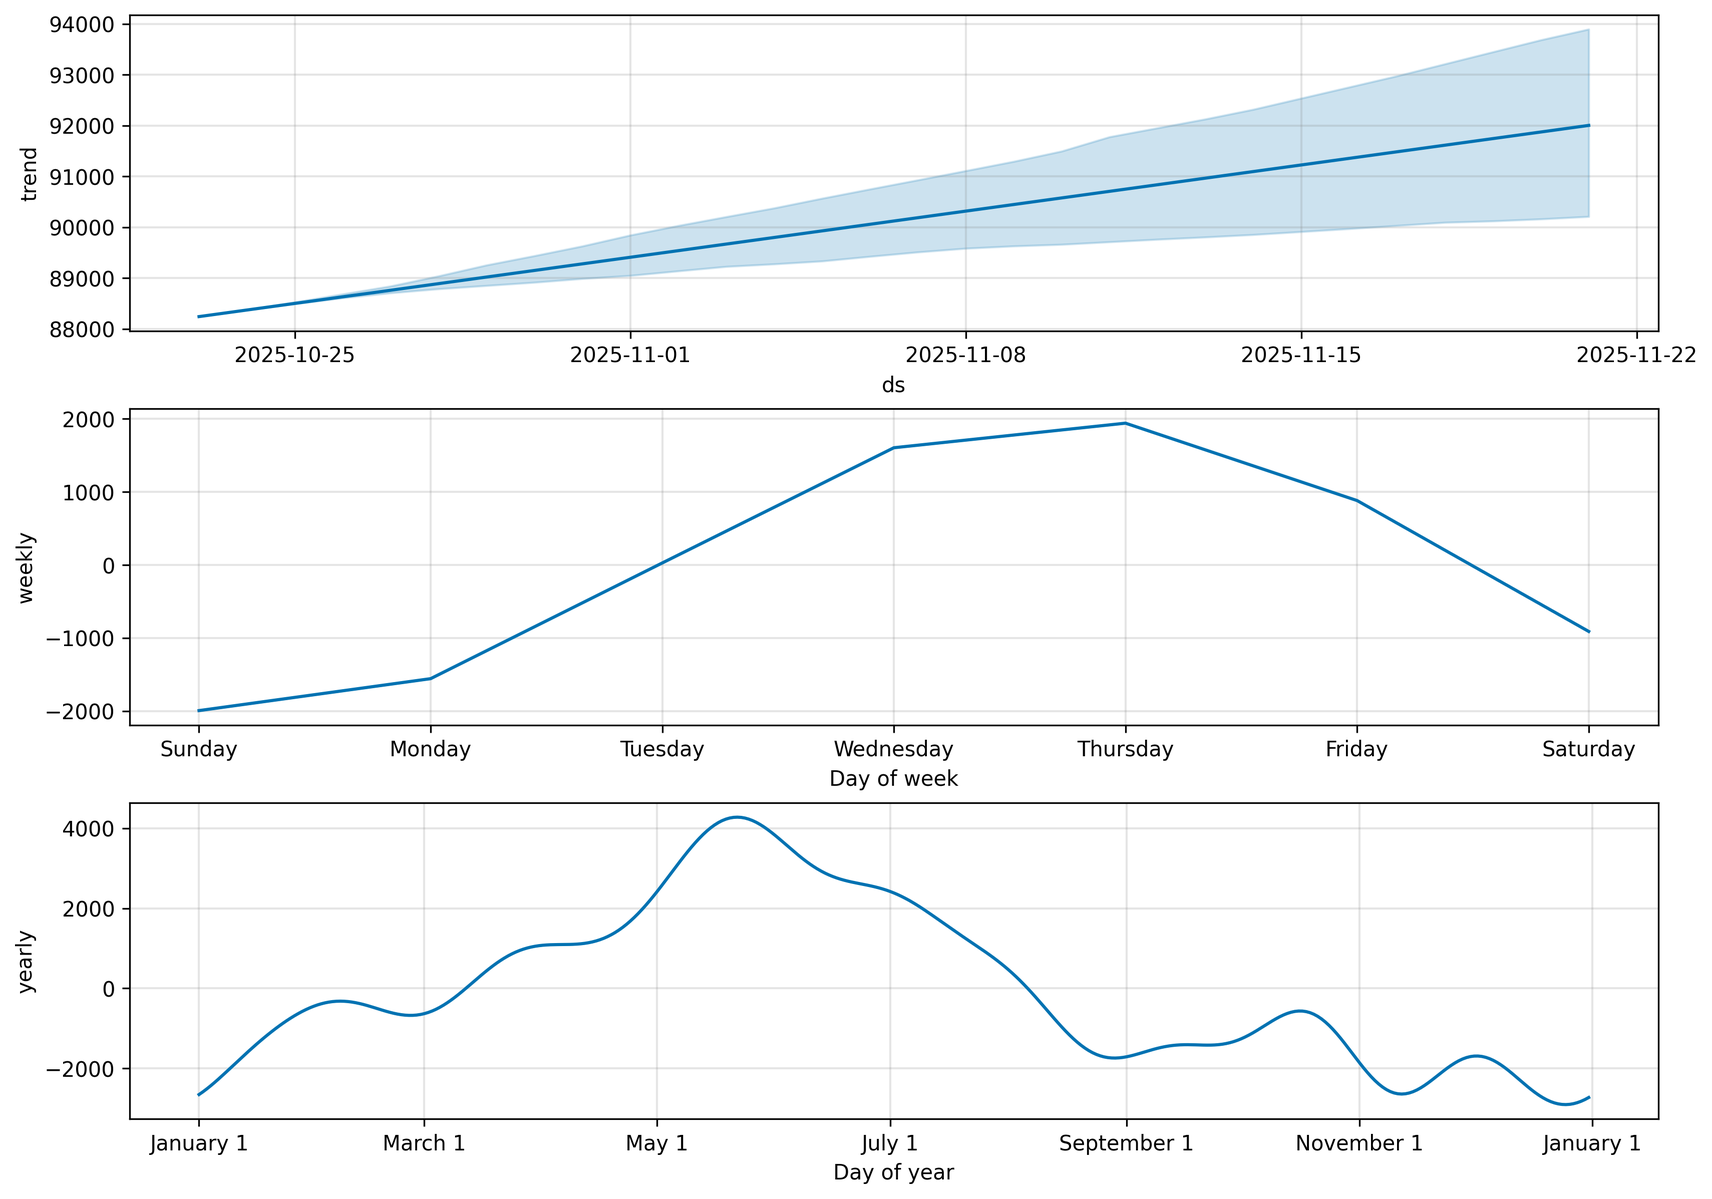
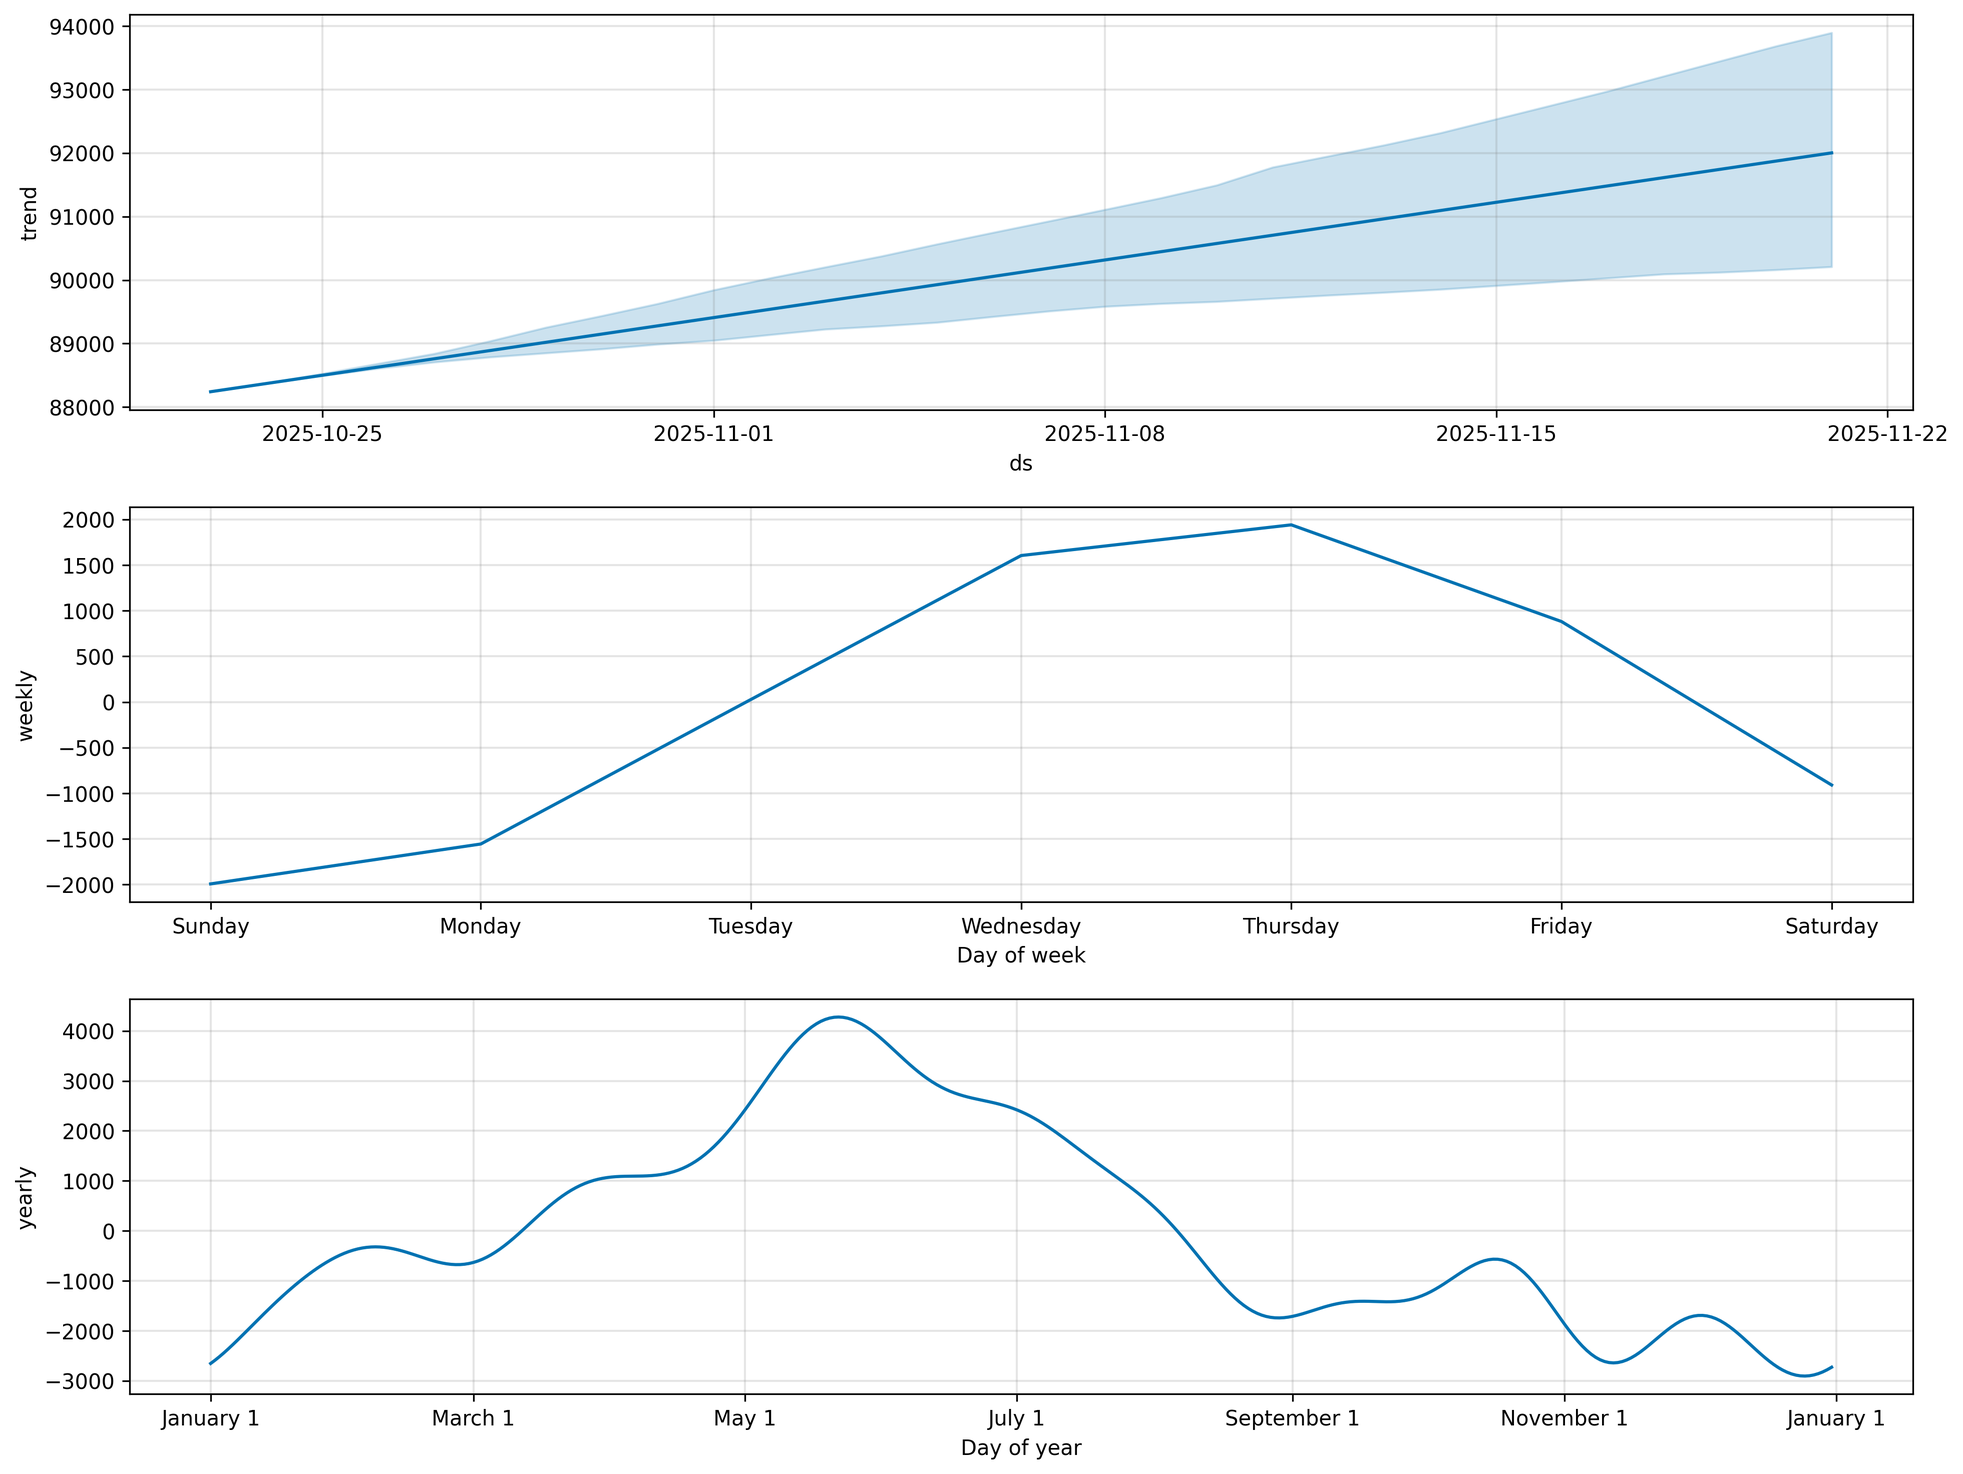
Improve visualizations: professional two-panel plots with zoom
- Enhanced all forecast plots with dual views (full timeline + detailed zoom)
- Added 60-day context window for better forecast visibility
- Improved model comparison with color-coded best performers
- Added error metrics directly on plots
- Increased DPI to 300 for publication quality
- Better colors, markers, and annotations
- SARIMA clearly highlighted as best model (1.07% MAPE)

diff --git a/src/evaluate_models.py b/src/evaluate_models.py
@@ -56,54 +56,84 @@ def plot_comparison(metrics_df):
     
     # Set style
     sns.set_style("whitegrid")
+    plt.rcParams['font.sans-serif'] = ['Arial']
     
     # Create figure with subplots
-    fig, axes = plt.subplots(2, 2, figsize=(14, 10))
+    fig, axes = plt.subplots(2, 2, figsize=(16, 11))
     
     models = metrics_df['model'].values
-    colors = ['#3498db', '#e74c3c', '#2ecc71']
+    # Highlight best model (SARIMA) with different color
+    colors = ['#3498db', '#2ecc71', '#95a5a6']  # ARIMA, SARIMA (green=best), Prophet
     
     # 1. MAE Comparison
     ax = axes[0, 0]
-    ax.bar(models, metrics_df['mae'], color=colors, alpha=0.7, edgecolor='black')
-    ax.set_ylabel('Mean Absolute Error ($)')
-    ax.set_title('MAE Comparison (Lower is Better)', fontweight='bold')
-    ax.grid(True, alpha=0.3, axis='y')
+    bars = ax.bar(models, metrics_df['mae'], color=colors, alpha=0.8, edgecolor='black', linewidth=1.5)
+    # Highlight best model
+    bars[1].set_edgecolor('#27ae60')
+    bars[1].set_linewidth(3)
+    ax.set_ylabel('Mean Absolute Error ($)', fontsize=12, fontweight='bold')
+    ax.set_title('MAE - Lower is Better', fontsize=13, fontweight='bold', pad=15)
+    ax.grid(True, alpha=0.25, axis='y', linestyle='--')
     for i, (m, v) in enumerate(zip(models, metrics_df['mae'])):
-        ax.text(i, v + 50, f'${v:.2f}', ha='center', fontweight='bold')
+        label = f'${v:.0f}' if i == 1 else f'${v:.0f}'
+        weight = 'bold' if i == 1 else 'normal'
+        ax.text(i, v + 80, label, ha='center', fontweight=weight, fontsize=11)
     
     # 2. RMSE Comparison
     ax = axes[0, 1]
-    ax.bar(models, metrics_df['rmse'], color=colors, alpha=0.7, edgecolor='black')
-    ax.set_ylabel('Root Mean Squared Error ($)')
-    ax.set_title('RMSE Comparison (Lower is Better)', fontweight='bold')
-    ax.grid(True, alpha=0.3, axis='y')
+    bars = ax.bar(models, metrics_df['rmse'], color=colors, alpha=0.8, edgecolor='black', linewidth=1.5)
+    bars[1].set_edgecolor('#27ae60')
+    bars[1].set_linewidth(3)
+    ax.set_ylabel('Root Mean Squared Error ($)', fontsize=12, fontweight='bold')
+    ax.set_title('RMSE - Lower is Better', fontsize=13, fontweight='bold', pad=15)
+    ax.grid(True, alpha=0.25, axis='y', linestyle='--')
     for i, (m, v) in enumerate(zip(models, metrics_df['rmse'])):
-        ax.text(i, v + 100, f'${v:.2f}', ha='center', fontweight='bold')
+        label = f'${v:.0f}' if i == 1 else f'${v:.0f}'
+        weight = 'bold' if i == 1 else 'normal'
+        ax.text(i, v + 100, label, ha='center', fontweight=weight, fontsize=11)
     
-    # 3. MAPE Comparison
+    # 3. MAPE Comparison (MOST IMPORTANT)
     ax = axes[1, 0]
-    ax.bar(models, metrics_df['mape'], color=colors, alpha=0.7, edgecolor='black')
-    ax.set_ylabel('Mean Absolute Percentage Error (%)')
-    ax.set_title('MAPE Comparison (Lower is Better)', fontweight='bold')
-    ax.grid(True, alpha=0.3, axis='y')
+    bars = ax.bar(models, metrics_df['mape'], color=colors, alpha=0.8, edgecolor='black', linewidth=1.5)
+    bars[1].set_edgecolor('#27ae60')
+    bars[1].set_linewidth(3)
+    ax.set_ylabel('Mean Absolute Percentage Error (%)', fontsize=12, fontweight='bold')
+    ax.set_title('MAPE - Industry Standard Metric (Lower is Better)', 
+                 fontsize=13, fontweight='bold', pad=15)
+    ax.grid(True, alpha=0.25, axis='y', linestyle='--')
     for i, (m, v) in enumerate(zip(models, metrics_df['mape'])):
-        ax.text(i, v + 0.1, f'{v:.2f}%', ha='center', fontweight='bold')
+        label = f'{v:.2f}%\n⭐ BEST' if i == 1 else f'{v:.2f}%'
+        weight = 'bold' if i == 1 else 'normal'
+        color_text = '#27ae60' if i == 1 else 'black'
+        ax.text(i, v + 0.12, label, ha='center', fontweight=weight, fontsize=11, color=color_text)
     
     # 4. Direction Accuracy Comparison
     ax = axes[1, 1]
-    ax.bar(models, metrics_df['direction_accuracy'], color=colors, alpha=0.7, edgecolor='black')
-    ax.set_ylabel('Direction Accuracy (%)')
-    ax.set_title('Direction Accuracy (Higher is Better)', fontweight='bold')
-    ax.axhline(y=50, color='red', linestyle='--', alpha=0.5, label='Random (50%)')
-    ax.grid(True, alpha=0.3, axis='y')
-    ax.legend()
+    bars = ax.bar(models, metrics_df['direction_accuracy'], color=colors, alpha=0.8, 
+                  edgecolor='black', linewidth=1.5)
+    bars[0].set_edgecolor('#e74c3c')  # Highlight ARIMA (tied best)
+    bars[0].set_linewidth(3)
+    bars[2].set_edgecolor('#e74c3c')  # Highlight Prophet (tied best)
+    bars[2].set_linewidth(3)
+    ax.set_ylabel('Direction Accuracy (%)', fontsize=12, fontweight='bold')
+    ax.set_title('Direction Prediction - Higher is Better', fontsize=13, fontweight='bold', pad=15)
+    ax.axhline(y=50, color='#c0392b', linestyle='--', alpha=0.6, linewidth=2, label='Random Baseline (50%)')
+    ax.grid(True, alpha=0.25, axis='y', linestyle='--')
+    ax.legend(fontsize=10, loc='lower right')
+    ax.set_ylim([40, 100])
     for i, (m, v) in enumerate(zip(models, metrics_df['direction_accuracy'])):
-        ax.text(i, v + 1, f'{v:.1f}%', ha='center', fontweight='bold')
+        weight = 'bold' if i in [0, 2] else 'normal'
+        ax.text(i, v + 1.5, f'{v:.1f}%', ha='center', fontweight=weight, fontsize=11)
     
-    plt.suptitle('Time Series Model Comparison - Bitcoin Price Forecasting', 
-                 fontsize=16, fontweight='bold', y=1.00)
-    plt.tight_layout()
+    plt.suptitle('Bitcoin Price Forecasting - Model Performance Comparison', 
+                 fontsize=16, fontweight='bold', y=0.995)
+    
+    # Add overall winner annotation
+    fig.text(0.5, 0.02, '⭐ SARIMA is the best model with 1.07% MAPE and lowest overall error', 
+             ha='center', fontsize=12, fontweight='bold', 
+             bbox=dict(boxstyle='round', facecolor='lightgreen', alpha=0.8))
+    
+    plt.tight_layout(rect=[0, 0.03, 1, 0.99])
     
     plt.savefig(results_dir / 'model_comparison.png', dpi=300, bbox_inches='tight')
     print(f"\n💾 Saved: {results_dir / 'model_comparison.png'}")

diff --git a/src/prophet_model.py b/src/prophet_model.py
@@ -159,44 +159,76 @@ def evaluate_model(model, test_df):
 
 
 def plot_results(model, train_df, test_df, forecast):
-    """Plot actual vs forecast"""
+    """Plot actual vs forecast with improved visualization"""
     results_dir = Path(__file__).parent.parent / "results"
     results_dir.mkdir(exist_ok=True)
     
-    # Main forecast plot
-    fig, ax = plt.subplots(figsize=(15, 6))
-    
-    # Plot training data
-    ax.plot(train_df['date'], train_df['close'], label='Training Data', color='blue', alpha=0.6)
-    
-    # Plot test data (actual)
-    ax.plot(test_df['date'], test_df['close'], label='Actual Test Data', color='green', linewidth=2)
-    
-    # Plot forecast for test period
+    # Get test forecast
     test_forecast = forecast[forecast['ds'].isin(test_df['date'])]
-    ax.plot(test_forecast['ds'], test_forecast['yhat'], 
-            label='Prophet Forecast', color='red', linewidth=2, linestyle='--')
     
-    # Plot confidence interval
-    ax.fill_between(test_forecast['ds'], 
-                    test_forecast['yhat_lower'], 
-                    test_forecast['yhat_upper'], 
-                    color='red', alpha=0.2, label='95% Confidence Interval')
+    # Create figure with two subplots
+    fig, (ax1, ax2) = plt.subplots(2, 1, figsize=(15, 10))
     
-    ax.set_xlabel('Date')
-    ax.set_ylabel('BTC Price (USD)')
-    ax.set_title('Prophet Bitcoin Price Forecast', fontsize=14, fontweight='bold')
-    ax.legend()
-    ax.grid(True, alpha=0.3)
+    # Plot 1: Full dataset overview
+    ax1.plot(train_df['date'], train_df['close'], label='Training Data', 
+             color='#2E86DE', alpha=0.7, linewidth=1)
+    ax1.plot(test_df['date'], test_df['close'], label='Actual (Test)', 
+             color='#10AC84', linewidth=2.5)
+    ax1.plot(test_forecast['ds'], test_forecast['yhat'], 
+             label='Prophet Forecast', color='#EE5A6F', linewidth=2.5, linestyle='--')
+    ax1.fill_between(test_forecast['ds'], 
+                     test_forecast['yhat_lower'], 
+                     test_forecast['yhat_upper'], 
+                     color='#EE5A6F', alpha=0.2, label='95% CI')
+    ax1.set_xlabel('Date', fontsize=11)
+    ax1.set_ylabel('BTC Price (USD)', fontsize=11)
+    ax1.set_title('Prophet Bitcoin Price Forecast - Full Timeline', 
+                  fontsize=13, fontweight='bold', pad=15)
+    ax1.legend(loc='upper left', fontsize=10)
+    ax1.grid(True, alpha=0.3, linestyle='--')
+    
+    # Plot 2: Zoomed in on test period (last 60 days for context)
+    zoom_start_idx = max(0, len(train_df) - 60)
+    zoom_train = train_df.iloc[zoom_start_idx:]
+    
+    ax2.plot(zoom_train['date'], zoom_train['close'], label='Recent Training Data', 
+             color='#2E86DE', alpha=0.7, linewidth=1.5)
+    ax2.plot(test_df['date'], test_df['close'], label='Actual (Test)', 
+             color='#10AC84', linewidth=3, marker='o', markersize=4)
+    ax2.plot(test_forecast['ds'], test_forecast['yhat'], 
+             label='Prophet Forecast', color='#EE5A6F', linewidth=3, 
+             linestyle='--', marker='s', markersize=4)
+    ax2.fill_between(test_forecast['ds'], 
+                     test_forecast['yhat_lower'], 
+                     test_forecast['yhat_upper'], 
+                     color='#EE5A6F', alpha=0.25)
+    ax2.axvline(x=test_df['date'].iloc[0], color='gray', linestyle=':', 
+                linewidth=2, label='Forecast Start', alpha=0.7)
+    ax2.set_xlabel('Date', fontsize=11)
+    ax2.set_ylabel('BTC Price (USD)', fontsize=11)
+    ax2.set_title('Prophet Forecast - Detailed View (Last 60 Days + 30-Day Forecast)', 
+                  fontsize=13, fontweight='bold', pad=15)
+    ax2.legend(loc='upper left', fontsize=10)
+    ax2.grid(True, alpha=0.3, linestyle='--')
+    
+    # Add error metrics as text
+    actual = test_df['close'].values
+    predicted = test_forecast['yhat'].values
+    mae = np.mean(np.abs(actual - predicted))
+    mape = np.mean(np.abs((actual - predicted) / actual)) * 100
+    textstr = f'MAE: ${mae:.2f}\nMAPE: {mape:.2f}%'
+    props = dict(boxstyle='round', facecolor='wheat', alpha=0.8)
+    ax2.text(0.02, 0.98, textstr, transform=ax2.transAxes, fontsize=10,
+             verticalalignment='top', bbox=props)
+    
     plt.tight_layout()
-    
     plt.savefig(results_dir / 'prophet_forecast.png', dpi=300, bbox_inches='tight')
     print(f"\n💾 Saved: {results_dir / 'prophet_forecast.png'}")
     plt.close()
     
     # Component plots (trend, weekly, yearly)
     fig = model.plot_components(forecast)
-    fig.set_size_inches(12, 8)
+    fig.set_size_inches(14, 10)
     fig.savefig(results_dir / 'prophet_components.png', dpi=300, bbox_inches='tight')
     print(f"💾 Saved: {results_dir / 'prophet_components.png'}")
     plt.close()

diff --git a/src/sarima_model.py b/src/sarima_model.py
@@ -188,32 +188,59 @@ def evaluate_model(fitted_model, test_df):
 
 
 def plot_results(train_df, test_df, forecast, conf_int):
-    """Plot actual vs forecast"""
+    """Plot actual vs forecast with improved visualization"""
     results_dir = Path(__file__).parent.parent / "results"
     results_dir.mkdir(exist_ok=True)
     
-    plt.figure(figsize=(15, 6))
+    # Create figure with two subplots
+    fig, (ax1, ax2) = plt.subplots(2, 1, figsize=(15, 10))
     
-    # Plot training data
-    plt.plot(train_df['date'], train_df['close'], label='Training Data', color='blue', alpha=0.6)
+    # Plot 1: Full dataset overview
+    ax1.plot(train_df['date'], train_df['close'], label='Training Data', 
+             color='#2E86DE', alpha=0.7, linewidth=1)
+    ax1.plot(test_df['date'], test_df['close'], label='Actual (Test)', 
+             color='#10AC84', linewidth=2.5)
+    ax1.plot(test_df['date'], forecast, label='SARIMA Forecast', 
+             color='#EE5A6F', linewidth=2.5, linestyle='--')
+    ax1.fill_between(test_df['date'], conf_int[:, 0], conf_int[:, 1], 
+                     color='#EE5A6F', alpha=0.2, label='95% CI')
+    ax1.set_xlabel('Date', fontsize=11)
+    ax1.set_ylabel('BTC Price (USD)', fontsize=11)
+    ax1.set_title('SARIMA Bitcoin Price Forecast - Full Timeline (Weekly Seasonality)', 
+                  fontsize=13, fontweight='bold', pad=15)
+    ax1.legend(loc='upper left', fontsize=10)
+    ax1.grid(True, alpha=0.3, linestyle='--')
     
-    # Plot test data (actual)
-    plt.plot(test_df['date'], test_df['close'], label='Actual Test Data', color='green', linewidth=2)
+    # Plot 2: Zoomed in on test period (last 60 days for context)
+    zoom_start_idx = max(0, len(train_df) - 60)
+    zoom_train = train_df.iloc[zoom_start_idx:]
     
-    # Plot forecast
-    plt.plot(test_df['date'], forecast, label='SARIMA Forecast', color='red', linewidth=2, linestyle='--')
+    ax2.plot(zoom_train['date'], zoom_train['close'], label='Recent Training Data', 
+             color='#2E86DE', alpha=0.7, linewidth=1.5)
+    ax2.plot(test_df['date'], test_df['close'], label='Actual (Test)', 
+             color='#10AC84', linewidth=3, marker='o', markersize=4)
+    ax2.plot(test_df['date'], forecast, label='SARIMA Forecast', 
+             color='#EE5A6F', linewidth=3, linestyle='--', marker='s', markersize=4)
+    ax2.fill_between(test_df['date'], conf_int[:, 0], conf_int[:, 1], 
+                     color='#EE5A6F', alpha=0.25)
+    ax2.axvline(x=test_df['date'].iloc[0], color='gray', linestyle=':', 
+                linewidth=2, label='Forecast Start', alpha=0.7)
+    ax2.set_xlabel('Date', fontsize=11)
+    ax2.set_ylabel('BTC Price (USD)', fontsize=11)
+    ax2.set_title('SARIMA Forecast - Detailed View (Last 60 Days + 30-Day Forecast)', 
+                  fontsize=13, fontweight='bold', pad=15)
+    ax2.legend(loc='upper left', fontsize=10)
+    ax2.grid(True, alpha=0.3, linestyle='--')
     
-    # Plot confidence interval
-    plt.fill_between(test_df['date'], conf_int[:, 0], conf_int[:, 1], 
-                     color='red', alpha=0.2, label='95% Confidence Interval')
+    # Add error metrics as text
+    mae = np.mean(np.abs(test_df['close'].values - forecast))
+    mape = np.mean(np.abs((test_df['close'].values - forecast) / test_df['close'].values)) * 100
+    textstr = f'MAE: ${mae:.2f}\nMAPE: {mape:.2f}%\n⭐ Best Model'
+    props = dict(boxstyle='round', facecolor='lightgreen', alpha=0.8)
+    ax2.text(0.02, 0.98, textstr, transform=ax2.transAxes, fontsize=10,
+             verticalalignment='top', bbox=props)
     
-    plt.xlabel('Date')
-    plt.ylabel('BTC Price (USD)')
-    plt.title('SARIMA Bitcoin Price Forecast (with Weekly Seasonality)', fontsize=14, fontweight='bold')
-    plt.legend()
-    plt.grid(True, alpha=0.3)
     plt.tight_layout()
-    
     plt.savefig(results_dir / 'sarima_forecast.png', dpi=300, bbox_inches='tight')
     print(f"\n💾 Saved: {results_dir / 'sarima_forecast.png'}")
     plt.close()

diff --git a/src/arima_model.py b/src/arima_model.py
@@ -166,32 +166,59 @@ def evaluate_model(fitted_model, test_df):
 
 
 def plot_results(train_df, test_df, forecast, conf_int):
-    """Plot actual vs forecast"""
+    """Plot actual vs forecast with improved visualization"""
     results_dir = Path(__file__).parent.parent / "results"
     results_dir.mkdir(exist_ok=True)
     
-    plt.figure(figsize=(15, 6))
+    # Create figure with two subplots
+    fig, (ax1, ax2) = plt.subplots(2, 1, figsize=(15, 10))
     
-    # Plot training data
-    plt.plot(train_df['date'], train_df['close'], label='Training Data', color='blue', alpha=0.6)
+    # Plot 1: Full dataset overview
+    ax1.plot(train_df['date'], train_df['close'], label='Training Data', 
+             color='#2E86DE', alpha=0.7, linewidth=1)
+    ax1.plot(test_df['date'], test_df['close'], label='Actual (Test)', 
+             color='#10AC84', linewidth=2.5)
+    ax1.plot(test_df['date'], forecast, label='ARIMA Forecast', 
+             color='#EE5A6F', linewidth=2.5, linestyle='--')
+    ax1.fill_between(test_df['date'], conf_int[:, 0], conf_int[:, 1], 
+                     color='#EE5A6F', alpha=0.2, label='95% CI')
+    ax1.set_xlabel('Date', fontsize=11)
+    ax1.set_ylabel('BTC Price (USD)', fontsize=11)
+    ax1.set_title('ARIMA Bitcoin Price Forecast - Full Timeline', 
+                  fontsize=13, fontweight='bold', pad=15)
+    ax1.legend(loc='upper left', fontsize=10)
+    ax1.grid(True, alpha=0.3, linestyle='--')
     
-    # Plot test data (actual)
-    plt.plot(test_df['date'], test_df['close'], label='Actual Test Data', color='green', linewidth=2)
+    # Plot 2: Zoomed in on test period (last 60 days for context)
+    zoom_start_idx = max(0, len(train_df) - 60)
+    zoom_train = train_df.iloc[zoom_start_idx:]
     
-    # Plot forecast
-    plt.plot(test_df['date'], forecast, label='ARIMA Forecast', color='red', linewidth=2, linestyle='--')
+    ax2.plot(zoom_train['date'], zoom_train['close'], label='Recent Training Data', 
+             color='#2E86DE', alpha=0.7, linewidth=1.5)
+    ax2.plot(test_df['date'], test_df['close'], label='Actual (Test)', 
+             color='#10AC84', linewidth=3, marker='o', markersize=4)
+    ax2.plot(test_df['date'], forecast, label='ARIMA Forecast', 
+             color='#EE5A6F', linewidth=3, linestyle='--', marker='s', markersize=4)
+    ax2.fill_between(test_df['date'], conf_int[:, 0], conf_int[:, 1], 
+                     color='#EE5A6F', alpha=0.25)
+    ax2.axvline(x=test_df['date'].iloc[0], color='gray', linestyle=':', 
+                linewidth=2, label='Forecast Start', alpha=0.7)
+    ax2.set_xlabel('Date', fontsize=11)
+    ax2.set_ylabel('BTC Price (USD)', fontsize=11)
+    ax2.set_title('ARIMA Forecast - Detailed View (Last 60 Days + 30-Day Forecast)', 
+                  fontsize=13, fontweight='bold', pad=15)
+    ax2.legend(loc='upper left', fontsize=10)
+    ax2.grid(True, alpha=0.3, linestyle='--')
     
-    # Plot confidence interval
-    plt.fill_between(test_df['date'], conf_int[:, 0], conf_int[:, 1], 
-                     color='red', alpha=0.2, label='95% Confidence Interval')
+    # Add error metrics as text
+    mae = np.mean(np.abs(test_df['close'].values - forecast))
+    mape = np.mean(np.abs((test_df['close'].values - forecast) / test_df['close'].values)) * 100
+    textstr = f'MAE: ${mae:.2f}\nMAPE: {mape:.2f}%'
+    props = dict(boxstyle='round', facecolor='wheat', alpha=0.8)
+    ax2.text(0.02, 0.98, textstr, transform=ax2.transAxes, fontsize=10,
+             verticalalignment='top', bbox=props)
     
-    plt.xlabel('Date')
-    plt.ylabel('BTC Price (USD)')
-    plt.title('ARIMA Bitcoin Price Forecast', fontsize=14, fontweight='bold')
-    plt.legend()
-    plt.grid(True, alpha=0.3)
     plt.tight_layout()
-    
     plt.savefig(results_dir / 'arima_forecast.png', dpi=300, bbox_inches='tight')
     print(f"\n💾 Saved: {results_dir / 'arima_forecast.png'}")
     plt.close()
